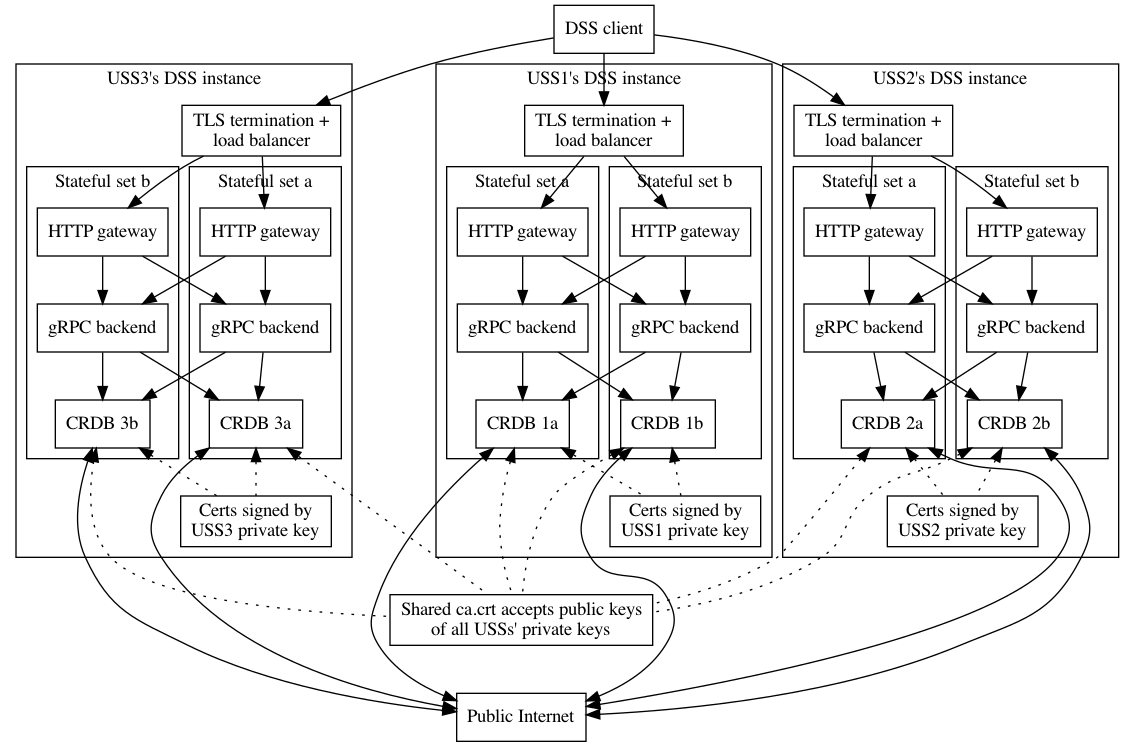
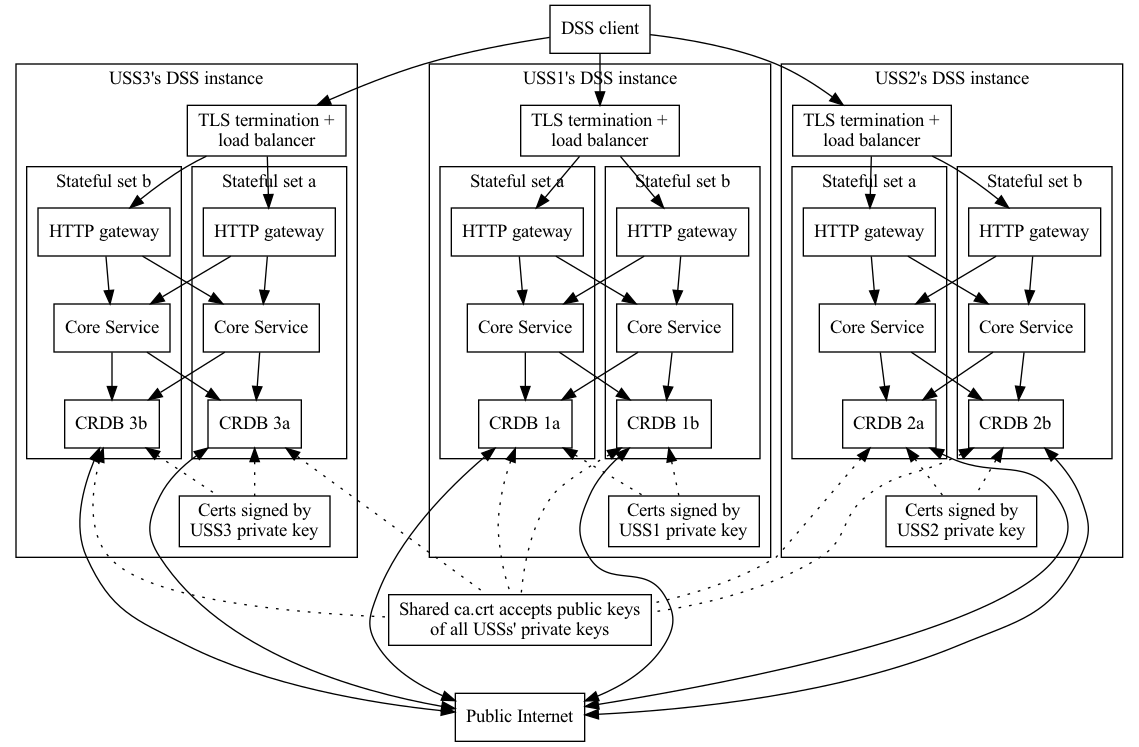
Replace grpc-backend with core-service

diff --git a/cmds/http-gateway/main.go b/cmds/http-gateway/main.go
@@ -33,7 +33,7 @@ import (
 var (
 	address         = flag.String("addr", ":8080", "Local address that the gateway binds to and listens on for incoming connections")
 	traceRequests   = flag.Bool("trace-requests", false, "Logs HTTP request/response pairs to stderr if true")
-	grpcBackend     = flag.String("grpc-backend", "", "Endpoint for grpc backend. Only to be set if run in proxy mode")
+	coreService     = flag.String("core-service", "", "Endpoint for core service. Only to be set if run in proxy mode")
 	profServiceName = flag.String("gcp_prof_service_name", "", "Service name for the Go profiler")
 	enableSCD       = flag.Bool("enable_scd", false, "Enables the Strategic Conflict Detection API")
 )
@@ -183,7 +183,7 @@ func myCodeToHTTPStatus(code codes.Code) int {
 // we initially only needed to add 1 extra Code to handle but since they didn't
 // export HTTPStatusFromCode we had to copy the whole thing.  Since then, we have added
 // custom error handling to return additional content for certain errors.  This handler
-// is invoked whenever the call to the gRPC backend results in an error (thus returning
+// is invoked whenever the call to the Core Service results in an error (thus returning
 // a Status err).  Because an error has occurred, the normal response body is not returned.
 func myHTTPError(ctx context.Context, mux *runtime.ServeMux, marshaler runtime.Marshaler, w http.ResponseWriter, _ *http.Request, err error) {
 	errID := errors.MakeErrID()
@@ -220,7 +220,7 @@ func myHTTPError(ctx context.Context, mux *runtime.ServeMux, marshaler runtime.M
 			body, ok := s.Details()[0].(*scdpb.AirspaceConflictResponse)
 			if ok {
 				buf, marshalingErr = marshaler.Marshal(body)
-				grpclog.Errorf("Error %s was an AirspaceConflictResponse from the gRPC backend", errID)
+				grpclog.Errorf("Error %s was an AirspaceConflictResponse from the Core Service", errID)
 			} else {
 				marshalingErr = stacktrace.NewError("Unable to cast s.Details()[0] from %s to *scdpb.AirspaceConflictResponse", reflect.TypeOf(s.Details()[0]))
 			}
@@ -231,7 +231,7 @@ func myHTTPError(ctx context.Context, mux *runtime.ServeMux, marshaler runtime.M
 		result, ok := s.Details()[0].(*auxpb.StandardErrorResponse)
 		if ok {
 			buf, marshalingErr = marshaler.Marshal(result)
-			grpclog.Errorf("Error %s was a StandardErrorResponse from the gRPC backend", errID)
+			grpclog.Errorf("Error %s was a StandardErrorResponse from the Core Service", errID)
 			handled = true
 		}
 	}
@@ -320,7 +320,7 @@ func main() {
 		}
 	}
 
-	switch err := RunHTTPProxy(ctx, cancel, *address, *grpcBackend); err {
+	switch err := RunHTTPProxy(ctx, cancel, *address, *coreService); err {
 	case nil, context.Canceled, http.ErrServerClosed:
 		logger.Info("Shutting down gracefully")
 	default:

diff --git a/monitoring/prober/scd/test_operation_references_error_cases_v0_3_5.py b/monitoring/prober/scd/test_operation_references_error_cases_v0_3_5.py
@@ -262,7 +262,7 @@ def test_missing_conflicted_operation(ids, scd_api, scd_session):
 def test_big_operation_search(scd_api, scd_session):
   """
   This test reproduces a case where a search resulted in 503 because the
-  underlying gRPC backend had crashed.
+  underlying Core Service had crashed.
   """
   with open('./scd/resources/op_big_operation.json', 'r') as f:
     req = json.load(f)

diff --git a/build/dev/standalone_instance.md b/build/dev/standalone_instance.md
@@ -12,7 +12,7 @@ sandbox environment consisting of:
   * A single CockroachDB node running in insecure mode via docker, communicating
     on port 26257 internally and exposing a web admin console on [port
     8080](http://localhost:8080) externally
-  * [gRPC backend](../../cmds/grpc-backend) listening by default on port 8081
+  * [Core Service](../../cmds/core-service) listening by default on port 8081
     internally, configured to
     * Connect to a CockroachDB node (implicitly port 26257)
     * Validate access tokens with [the auth2.pem public
@@ -54,17 +54,17 @@ To stop the system, just press ctrl-c or cmd-c.
 ## Debugging Mode
 
 [`run_locally.sh`](run_locally.sh) can also run in debugging mode, which enables
-debugging the gRPC backend code line by line with your favorite IDE. It is a very
+debugging the Core Service code line by line with your favorite IDE. It is a very
 straightforward process with just 2 steps:
 
 **Step 1**
 
-Run `run_locally.sh debug`, we will see the local-dss-grpc-backend starts with the
+Run `run_locally.sh debug`, we will see the local-dss-core-service starts with the
 DEBUG MODE: **on**, and the API server is listening at port : **4000**.
 
--  `local-dss-grpc-backend_1      | Debug Mode: on`
+-  `local-dss-core-service_1      | Debug Mode: on`
 -  `local-dss-scd-bootstrapper_1  | Allowing time for CRDB node to come up...`
--  `local-dss-grpc-backend_1      | API server listening at: [::]:4000`
+-  `local-dss-core-service_1      | API server listening at: [::]:4000`
 
 **Step 2 (One Time Effort)**
 

diff --git a/README_DSS.md b/README_DSS.md
@@ -27,7 +27,7 @@ here:
 - [Network Remote ID](https://tiny.cc/dssapi_rid)
 - [Strategic Coordination and Deconfliction](https://tiny.cc/dssapi_rid)
 
-### gRPC backend
+### Core Service
 
 Component responsible for all the business logic as well as
 authentication. This backend talks directly to CockroachDB.
@@ -52,6 +52,6 @@ Component responsible for performing orderly database schema migrations, includi
 *   [`pkg/`](pkg) contains all of the source code for the DSS. See the
     README in that directory for more information.
 *   [`cmds/`](cmds) contains entry points and docker files for the
-    actual binaries (the `http-gateway` and `grpc-backend`)
+    actual binaries (the `http-gateway` and `core-service`)
 *   [`test/`](test) contains some tests; see [the README](test/README.md)
     for more information about testing.

diff --git a/build/README.md b/build/README.md
@@ -61,8 +61,8 @@ Download & install the following tools to your workstation:
 
 ## Docker images
 
-The application logic of the DSS is located in grpc-backend and translation
-between external HTTPS requests and internal gRPC requests to grpc-backend is
+The application logic of the DSS is located in core-service and translation
+between external HTTPS requests and internal gRPC requests to core-service is
 accomplished with http-gateway.  Both of these binaries are provided in a single
 Docker image which is built locally and then pushed to a Docker registry of your
 choice.  All major cloud providers have a docker registry service, or you can

diff --git a/test/README.md b/test/README.md
@@ -31,9 +31,9 @@ simply add its name as the first argument to `docker_e2e.sh`.  For example:
 ./docker_e2e.sh scd/test_constraint_simple.py::test_constraint_does_not_exist_get
 ```
 
-### Examining gRPC backend logs
-After a `docker_e2e.sh` run, the gRPC backend logs are automatically captured
-to [grpc-backend-for-testing.log](../grpc-backend-for-testing.log).
+### Examining Core Service logs
+After a `docker_e2e.sh` run, the Core Service logs are automatically captured
+to [core-service-for-testing.log](../core-service-for-testing.log).
 
 ## Lint checks
 One of the continuous integration presubmit checks on this repository checks Go
